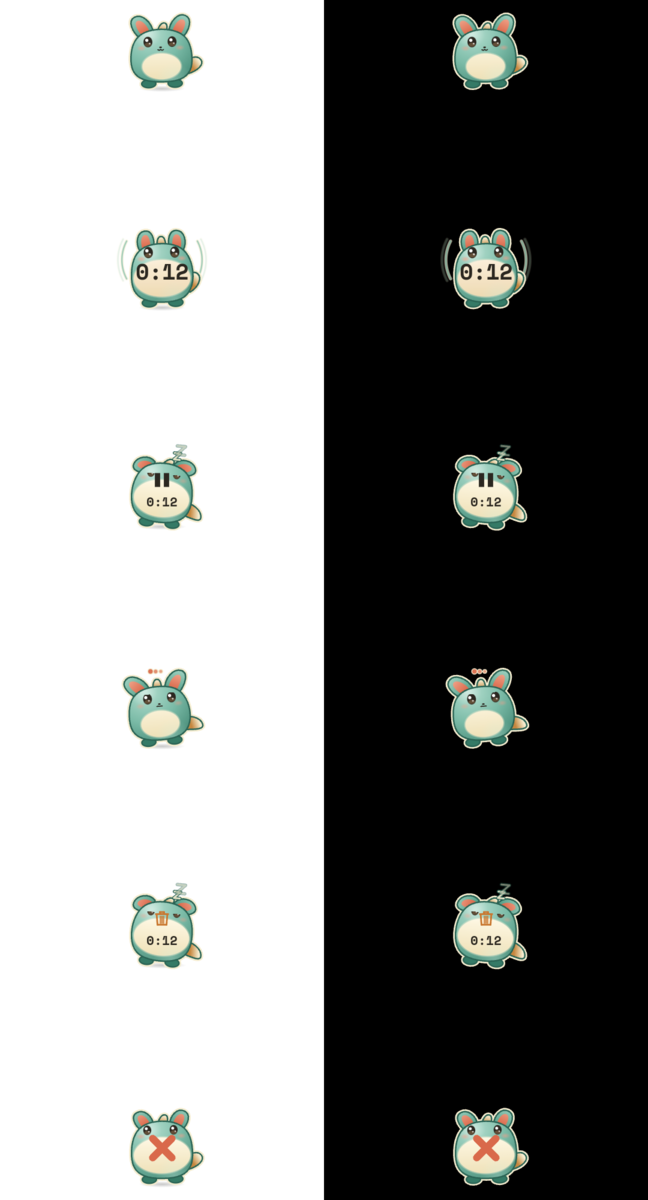
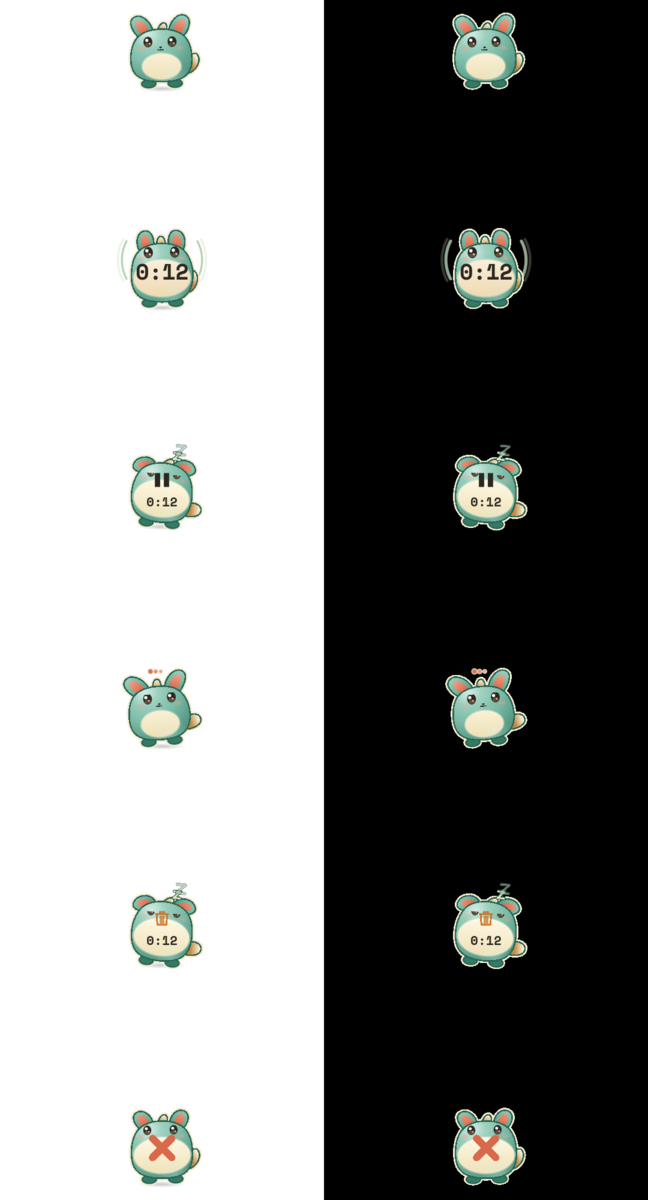
docs(quick): 018 fecha a investigação da queda no swiftshader e os goldens do CI
Registra a reprodução no modo do CI (5 quedas em 6 aberturas de overlay-mascot-transcribing; o Aero em
repouso, de controle, também cai neste emulador), a bisseção até o preenchimento com degradê do rabo com a
ponta dobrada para o lado positivo, a correção e a prova (260 aberturas, 0 quedas nas rotas do mascote), a
suíte da galeria em swiftshader, a comparação dos goldens versionados com a GPU do host (0 iguais) e com o
swiftshader (144 de 148 byte a byte iguais), e os desvios. GIFs e folhas regerados no swiftshader com o rabo
corrigido.

diff --git a/.specs/quick/018-skin-mascote/TASK.md b/.specs/quick/018-skin-mascote/TASK.md
@@ -75,8 +75,10 @@ pálpebra caída do sonolento corta). Luz refletida do chão embaixo à direita 
 
 ## Verificação
 
-Emulador `keyflow_api34` (API 34, 1080x2400 a 420 dpi) — **com a GPU do host** (`-gpu host`), ver SPEC_DEVIATION abaixo. Tudo com `adb -s emulator-5554`, dentro
-do `flock /tmp/keyflow-emulator.lock`; contagens lidas do logcat (`TestRunner: run finished`), não do resumo do `am instrument`.
+Emulador `keyflow_api34` (API 34, 1080x2400 a 420 dpi), sempre `adb -s emulator-5554` dentro do `flock /tmp/keyflow-emulator.lock`; contagens lidas do logcat
+(`TestRunner: run finished`), não do resumo do `am instrument`. **Dois ambientes**: a 1ª rodada de verificação (suíte, goldens contra o APK base, desempenho) foi na GPU do
+host (`-gpu host`), porque o `swiftshader_indirect` derrubava o emulador (ver "A queda no swiftshader" abaixo); depois de achar e corrigir a causa, o emulador voltou ao modo do
+CI (`-gpu swiftshader_indirect -no-snapshot-save -no-audio -no-boot-anim -camera-back none -cores 2`, sem core dump) e **os goldens do mascote são desse ambiente**.
 
 - **Unit** (`testDebugUnitTest`, completo): **850/850**, 0 falhas. Novos: `MascotTimelineTest` 11 (determinismo, hash estável e uniforme, piscada dentro da
   fatia, nunca coladas — vão mínimo ≥ 700 ms e 150 ms de olho aberto na dupla —, irregular porém estável, tremida amortecida e de um lado só ou dos dois,
@@ -91,10 +93,14 @@ do `flock /tmp/keyflow-emulator.lock`; contagens lidas do logcat (`TestRunner: r
   (`generateOrbMotionArtifacts`, `OverlayServiceCancelTest`, `PartialOverlayServiceTest`), e `PartialOverlayServiceTest` + `ModelDownloaderDeviceTest`
   isoladas passaram 9/9 duas vezes com cada APK — são instabilidade do emulador sob carga (load average 15–19 no host), não do mascote. O pacote `ime` não
   foi rodado (o mascote não toca o teclado; outro agente o rodou no mesmo emulador).
-- **Galeria**: 168 PNGs (154 antigos + 14 das 7 rotas novas). **Os 152 goldens antigos que não mostram a seção de skins saem byte a byte iguais** aos
-  capturados com o APK base no mesmo emulador (`cmp`); só `config-overlay-skins` e `config-overlay-skins-dark` mudam (o cartão novo no lugar da amostra vazia
-  da 5ª coluna) — foram os únicos aprovados, à mão (`git status -s verification/golden/` conferido). `scripts/diff-screens.sh`: **164/164 dentro do limiar**
-  (150 antigos + 14 novos). Contra os goldens *versionados* (feitos em outro ambiente) os antigos diferem de 5 a 270 px (≤ 0,01%), bem abaixo do limiar de 0,02%.
+- **Galeria** (GPU do host, APK base × APK do mascote): 168 PNGs (154 antigos + 14 das 7 rotas novas). **Os 152 goldens antigos que não mostram a seção de skins saem byte a
+  byte iguais** (`cmp`); só `config-overlay-skins` e `config-overlay-skins-dark` mudam (o cartão novo no lugar da amostra vazia da 5ª coluna). `git status -s verification/golden/`
+  conferido em cada aprovação.
+- **Galeria no modo do CI** (`swiftshader_indirect`, APK com o rabo corrigido): 168 capturas, **0 quedas** (2 rotas esperaram mais de 20 s e passaram na 2ª tentativa).
+  Contra os goldens **versionados** das 148 rotas que não são do mascote nem do cartão: **144 byte a byte iguais, 146 com 0 px de diferença** (`config-docs`, 4 px;
+  `keyboard-glitch-*`, 0 px com fuzz de 5%), máximo 0,00017%. A GPU do host, no mesmo conjunto: **0 byte a byte iguais**, mediana 0,0043%, máximo 0,0200% e 2 rotas de
+  outras skins acima do limiar de 0,02% (`config-teclado-travado-dark` e mais uma). Ou seja, **os goldens do repositório foram feitos em swiftshader**: o conjunto do
+  swiftshader é o certo, e foi ele que virou golden (só os 14 PNGs do mascote e os 2 do cartão; nenhum outro muda). `scripts/diff-screens.sh`: **164/164 dentro do limiar**.
 - **Desempenho** (`OrbFrameCostArtifactTest`, 195 px, 8 s depois de 2 s de aquecimento, relógio de verdade, 5 rodadas em ordem alternada; mediana das rodadas):
 
   | caso | UI desenho p50 | RenderThread p50 | quadro p50 (gfxinfo) |
@@ -114,13 +120,45 @@ do `flock /tmp/keyflow-emulator.lock`; contagens lidas do logcat (`TestRunner: r
   as rotas do mascote, as duas do cartão e `overlay-idle`/`overlay-rosegold-idle` recapturadas com o APK do HEAD saem **byte a byte iguais** às da captura final (a 1ª tela
   depois de instalar às vezes sai escurecida por um scrim do sistema — a captura é repetida, e a repetição bate; foi o que aconteceu com `overlay-mascot-recording`).
 
+### A queda no swiftshader (investigada em 2026-10-03)
+
+O `.github/workflows/checks.yml` sobe o emulador com `-gpu swiftshader_indirect`, o modo em que o `qemu` tinha dado SIGSEGV (na `RenderThread` do renderizador gráfico) ao abrir
+`overlay-mascot-transcribing`. Roteiro: um rodízio de rotas em que a rota inicial gira a cada rodada, com o emulador subindo de novo na queda (a versão enxuta, sem o reinício, é o
+`scripts/stress-routes.sh`); emulador reiniciado uma vez no modo do CI, `ulimit -c 0` no mesmo shell (sem core dump), tudo dentro do `flock`.
+
+1. **Reprodução** (APK do HEAD, 13 rotas em rodízio, 6 rodadas, parou nas 10 quedas): `overlay-mascot-transcribing` **5/6 quedas**, `overlay-mascot-paused` 2/6, e as de controle
+   `overlay-aero-idle` **3/6** (rota antiga, sem o mascote), `overlay-aero-recording`, `overlay-glitch-idle|recording|transcribing`, `overlay-rosegold-idle|recording`,
+   `orb-transcribing`, `overlay-idle`, `overlay-mascot-idle|recording` **0/6**. Ou seja: a queda **não é só do mascote** (o Aero em repouso, que já está nos goldens do CI, também
+   cai neste emulador), mas o mascote cai mais, e a rota que mais cai é a de "transcrevendo".
+2. **Bisseção** na rota congelada (a abertura classifica a variante: a 1ª queda a marca como "cai"; "limpa" = 6 a 8 aberturas sem queda, com taxa de ~83% no original), desligando
+   partes de `drawMascotOrb` por uma máscara de bits temporária (não commitada):
+   nada desenhado 0/6 · só corpo+barriga+rosto+pontinhos 0/6 · só sombra+filete+orelhas/rabo/topete+pés **cai** (4ª abertura) · só a sombra 0/6 · só o filete 0/6 · só os pés 0/6 ·
+   só orelhas+rabo+topete (preenchimento) **cai** (1ª) · sem o corte da pálpebra ainda cai (6 quedas em 8) · sem os pontinhos ainda cai (4 em 5) · dentro de orelhas/rabo/topete:
+   orelhas 0/6, topete 0/6, contornos 0/6, **rabo cai** (2ª abertura).
+3. **No rabo**: cor lisa 0/6 · o **mesmo degradê num oval**, com o mesmo giro, 0/8 · degradê com os pontos de parada completos ou o eixo invertido, **cai** igual · degradê na folha **sem girar** 0/6,
+   girado 30° cai na 5ª abertura · **dobra da ponta 0 ou -0,04: 0/8; +0,03 (o repouso) ou +0,08: cai na 1ª a 5ª** · orelhas com a mesma dobra +0,06 forçada: 0/8.
+   Causa mínima: **preencher com degradê a folha do rabo, girada, com a ponta dobrada para o lado positivo**. Por que o `qemu` cai ali eu não isolei (o core não tem símbolos:
+   é uma chamada a ponteiro nulo na `RenderThread` do host, típica de um caminho de desenho que o swiftshader do emulador 37.1.11 não implementa); a convexidade da folha não
+   explica (a de +0,03 é convexa). Foi o que sobrou depois de eliminar tudo mais, com repetição.
+4. **Correção** (`e2c1aa2`): o rabo dobra sempre para cima (`tailBendOf`, entre -0,05 e 0, repouso em -0,03: a ponta fica ~3% do lado mais levantada; o visual segue o aprovado) e
+   um teste de unidade impede que volte a ficar positiva. **Prova** com o mesmo roteiro (13 rotas em rodízio, 20 rodadas, **20 aberturas de cada rota**, 260 no total):
+   `overlay-mascot-transcribing` **0/20**, `overlay-mascot-paused` 0/20 (1 espera de mais de 20 s, sem queda), `overlay-mascot-idle|recording` 0/20, `overlay-glitch-*`, `overlay-rosegold-*`,
+   `overlay-aero-recording`, `orb-transcribing`, `overlay-idle` 0/20 e **`overlay-aero-idle` 1/20** (a mesma instabilidade de antes, de outra causa). Mais: a galeria inteira em
+   swiftshader (168 capturas) sem nenhuma queda, e `MascotMotionArtifactTest` + `OverlayPanelTest` 8/8 três vezes seguidas, com 240 poses diferentes por rodada.
+5. **No CI**: não mexi no workflow. O mascote já não derruba o swiftshader. O que sobra é a instabilidade do **Aero em repouso** (1/20 a 3/6 neste emulador 37.1.11; o CI, que usa o
+   emulador que a action baixa na hora, já passou com ele nos goldens): se aparecer no CI, a mitigação mais barata é repetir a captura da rota que não ficou pronta (o
+   `verify-screens.sh` hoje aborta na 1ª rota que não fica pronta), antes de pensar em outro modo de GPU (`swangle_indirect`).
+6. **Suíte `com.keyflow.ui` em swiftshader (2 núcleos)**: 182/182 sem `SetupActivityTest` + 2/2 do `SetupActivityTest` isolado = 184/184. Duas instabilidades **do emulador no início, sem relação
+   com a orbe**: o 1º teste depois de reiniciar o emulador (`SetupActivityTest.overlayModeToggleStartsAndStopsForegroundService`) derrubou o processo duas vezes com
+   `ForegroundServiceDidNotStartInTimeException` e passou isolado; e o `captureToImage` do `MascotMotionArtifactTest` estourou 2 s uma vez (por isso agora repete até 5 vezes).
+
 ### SPEC_DEVIATION / achados do ambiente
 
-1. **Emulador e GPU.** O `qemu-system` do emulador deu SIGSEGV 4 vezes (3 com `swiftshader_indirect`, 1 com `-gpu guest`), sempre na `RenderThread` do renderer
-   gráfico; três delas ao abrir a rota `overlay-mascot-transcribing` (a quarta foi a do emulador do outro agente, de causa que não apurei). Cada queda deixou um **core de ~920 MB**
-   em `/var/lib/systemd/coredump` (root; 4 deles) — convém limpar com `sudo coredumpctl`/`rm`. Subi o `keyflow_api34` com `-gpu host -no-snapshot-save -no-audio` e
-   `ulimit -c 0` (sem mais cores) e ele ficou estável em centenas de aberturas de rota (duas capturas completas, a suíte e as medidas). O emulador em `emulator-5554` agora é esse (deixei ligado). Os goldens novos são desse
-   ambiente: se o CI usar renderização por software, pode haver diferença de alguns pixels de antialiasing nas rotas do mascote.
+1. **Emulador e GPU.** O `qemu-system` deu SIGSEGV 4 vezes (3 com `swiftshader_indirect`, 1 com `-gpu guest`), sempre na `RenderThread` do renderizador gráfico; três delas
+   ao abrir `overlay-mascot-transcribing`. Causa isolada em 2026-10-03 (seção acima): o preenchimento com degradê do rabo do mascote com a ponta dobrada para o lado positivo — corrigido
+   em `e2c1aa2` —, mais uma instabilidade própria do `overlay-aero-idle` neste emulador (37.1.11), que não é do mascote. Cada queda deixou um **core de ~920 MB** em
+   `/var/lib/systemd/coredump` (root, 4 deles; convém limpar com `sudo`). Para a 1ª rodada de verificação usei `-gpu host`; hoje o emulador em `emulator-5554` está **em
+   `swiftshader_indirect`** (o modo do CI), com `ulimit -c 0`, e é nele que estão os goldens do mascote.
 2. **Disco.** No começo `/home` estava a 100% (980 MB livres) e o emulador se recusava a subir; as saídas de build foram redirecionadas para `/var/tmp` com um init script
    fora do repositório (`-I`), sem tocar nos `build.gradle`. (Depois o `/home` voltou a ter 29 GB.)
 3. **GIFs.** O brief pedia quadros "da galeria com o relógio avançando"; a `GalleryActivity` congela o relógio de propósito, então usei o mesmo harness do
@@ -133,14 +171,15 @@ do `flock /tmp/keyflow-emulator.lock`; contagens lidas do logcat (`TestRunner: r
 ## Para abrir (neste diretório)
 
 - `ouvi-repouso.gif`, `ouvi-escutando.gif`, `ouvi-pausado.gif`, `ouvi-transcrevendo.gif` — 2,8 a 3,2 s cada, 156 px, sobre branco e preto, 20 quadros por segundo
-  (175 a 407 KB); `scripts/verify-mascot-gifs.sh` os regenera.
+  (120 a 330 KB, regerados no swiftshader com o rabo corrigido); `scripts/verify-mascot-gifs.sh` os regenera.
 - `ouvi-estados-claro-escuro.png` (cada estado e cada coisa que o app escreve no centro, sobre branco e preto) e `ouvi-tamanhos.png` (110 a 280 px).
 - Tela cheia: `verification/golden/overlay-mascot-*.png` e `config-overlay-skins-mascote*.png`.
 
 ## Commits
 
 `ebc7a26` calendário · `6fcfb4f` skin Mascote (pose, desenho, `OrbStyle.MASCOT`) · `e4014e6` cartão em Sobrepor (+ 2 goldens) · `eb727f8` rotas e goldens da galeria ·
-`efe39ff` GIFs e custo de quadro · `1e52fab` KDoc do pivô · `c06f3d2` custo UI × RenderThread · e o `docs(quick)` deste diretório.
+`efe39ff` GIFs e custo de quadro · `1e52fab` KDoc do pivô · `c06f3d2` custo UI × RenderThread · `c34459d` docs(quick) · e, na investigação do swiftshader: `e2c1aa2` rabo sem dobra positiva ·
+`e2d69b3` captura repetida no artefato de movimento · `b027d29` goldens do mascote e do cartão no swiftshader · `7ea1778` `stress-routes.sh` · e o `docs(quick)` que fecha este registro.
 
 ## Em aberto
 
@@ -150,7 +189,7 @@ do `flock /tmp/keyflow-emulator.lock`; contagens lidas do logcat (`TestRunner: r
 - **Os glifos do app não são do mascote**: a lixeira (âmbar) e o X (terracota) mantêm as cores de sempre (≈ 2,7–3:1 sobre o creme, como no Ateliê); a lixeira cai em parte
   sobre o verde.
 - O topete é discreto (âmbar e creme, meio escondido pelas orelhas); o "z" e os arcos de som são finos a 110 px.
-- Goldens do ambiente do host (GPU do host): o CI por software pode divergir uns pixels nas rotas do mascote. Não medi no A32 nem vi o mascote se mexendo no aparelho.
+- Não medi no A32 nem vi o mascote se mexendo no aparelho. O `overlay-aero-idle` (de outra skin) é instável neste emulador em swiftshader (1/20 a 3/6 aberturas); não investiguei a causa.
 - A frase da aba Docs não cita o Mascote (ver SPEC_DEVIATION 4).
 - Se o Yan não gostar do personagem: (1) trocar a espécie mantendo o motor — calendário, pose e disposições servem a qualquer criatura de corpo redondo e orelhas, só os
   `Path` e as cores mudam; (2) sem o filete creme (mais "limpo", mas perde a leitura no preto); (3) uma versão sem pés nem rabo, mais próxima do globo.
